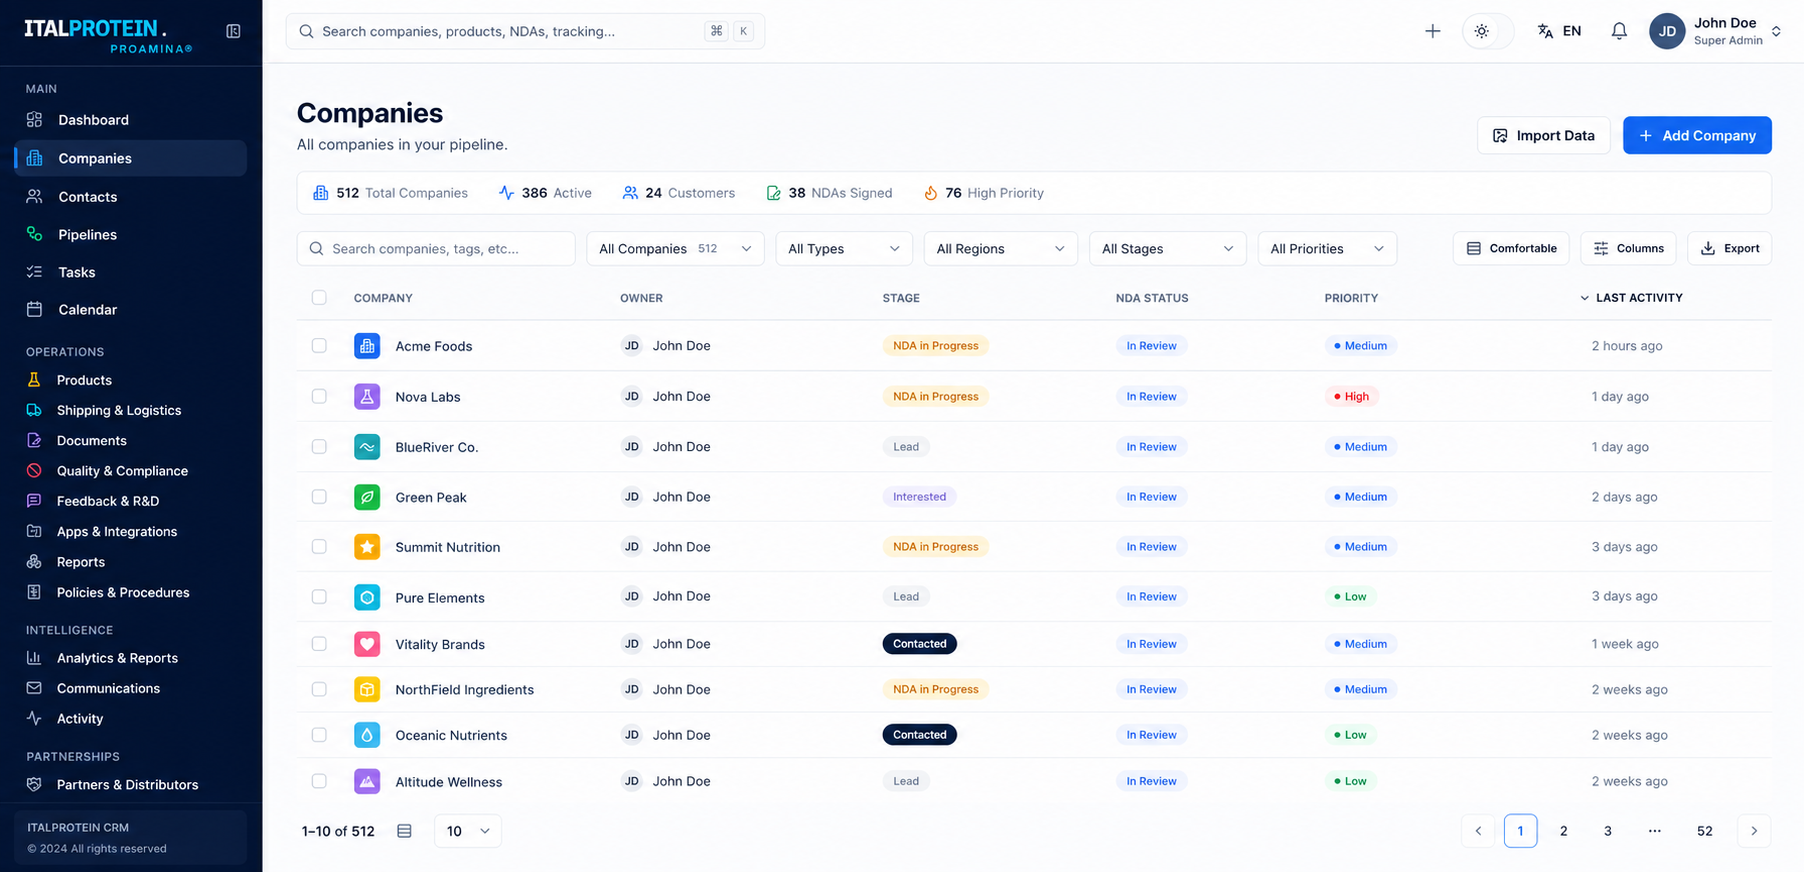
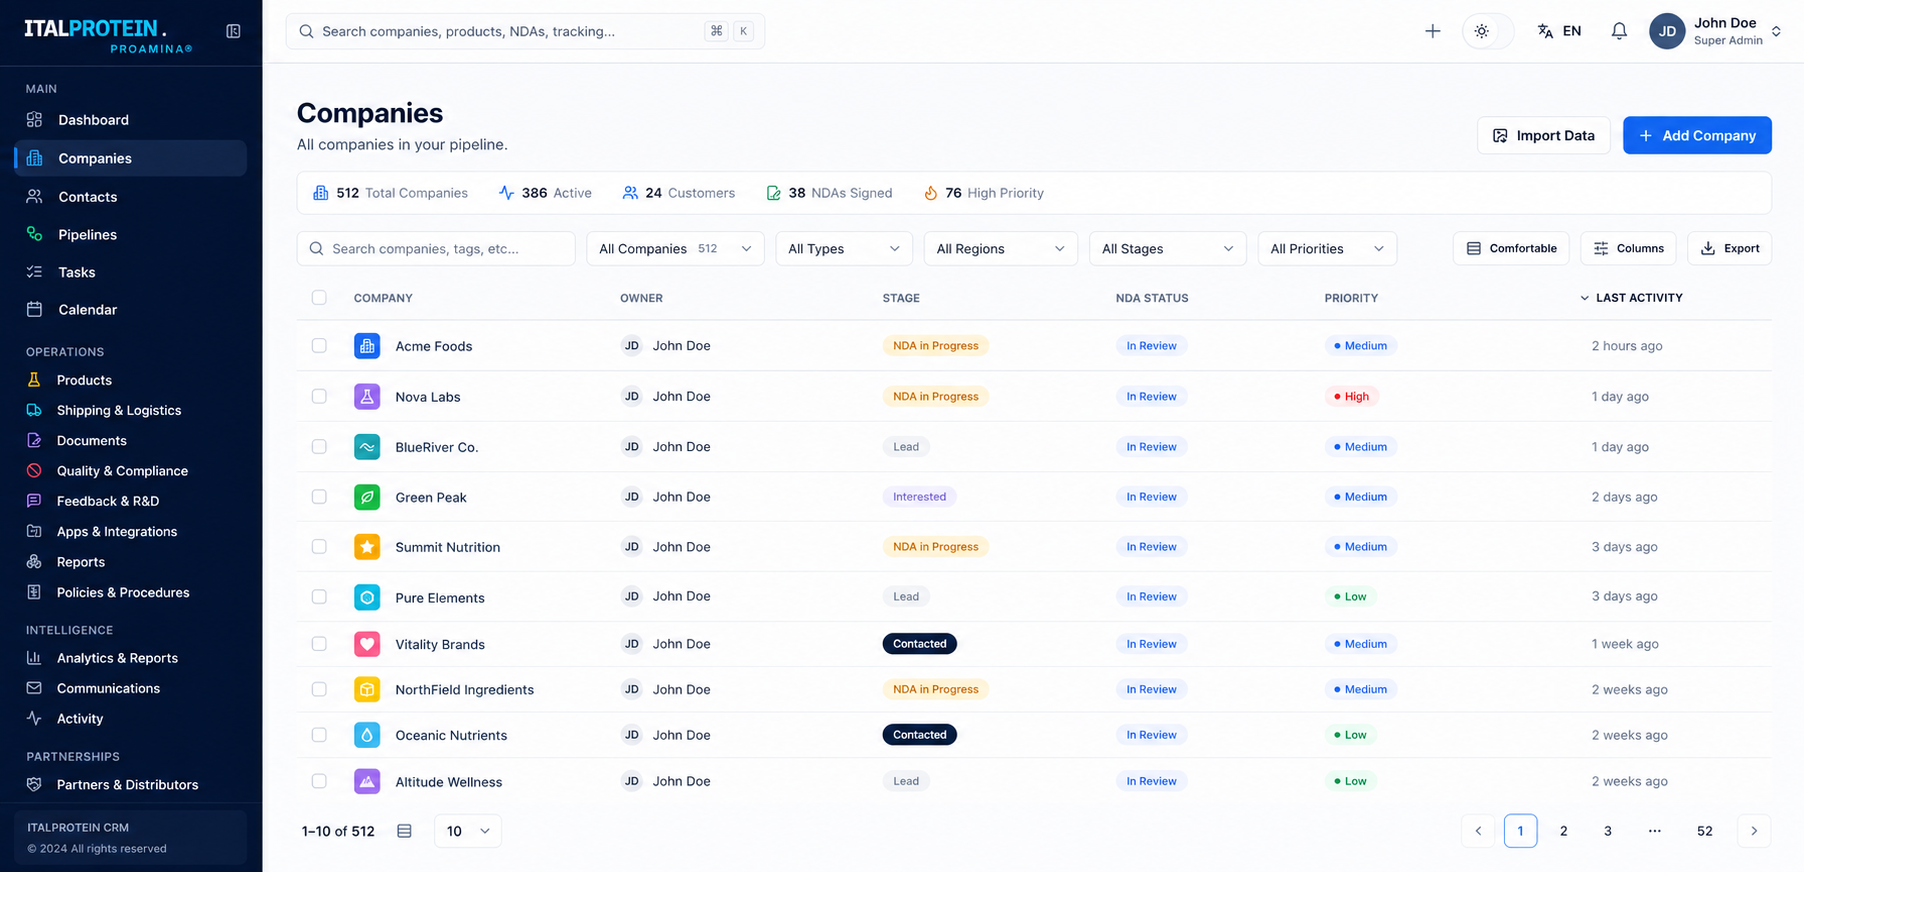
Use the full-frame companies capture the owner provided
The previous swap deployed the cropped variant from the clipboard; this
is the intended file (1914x911, whole page with its bottom edge).

diff --git a/app/[locale]/(public)/page.tsx b/app/[locale]/(public)/page.tsx
@@ -176,8 +176,8 @@ export default function LandingPage() {
                 src="/marketing/crm-companies.png"
                 alt={t('screenshotAlt')}
                 url="crm.italprotein.com"
-                width={1804}
-                height={872}
+                width={1914}
+                height={911}
                 className="mx-auto w-full max-w-6xl lg:[transform:rotateX(3deg)] lg:[transform-origin:top_center]"
               />
             </div>
